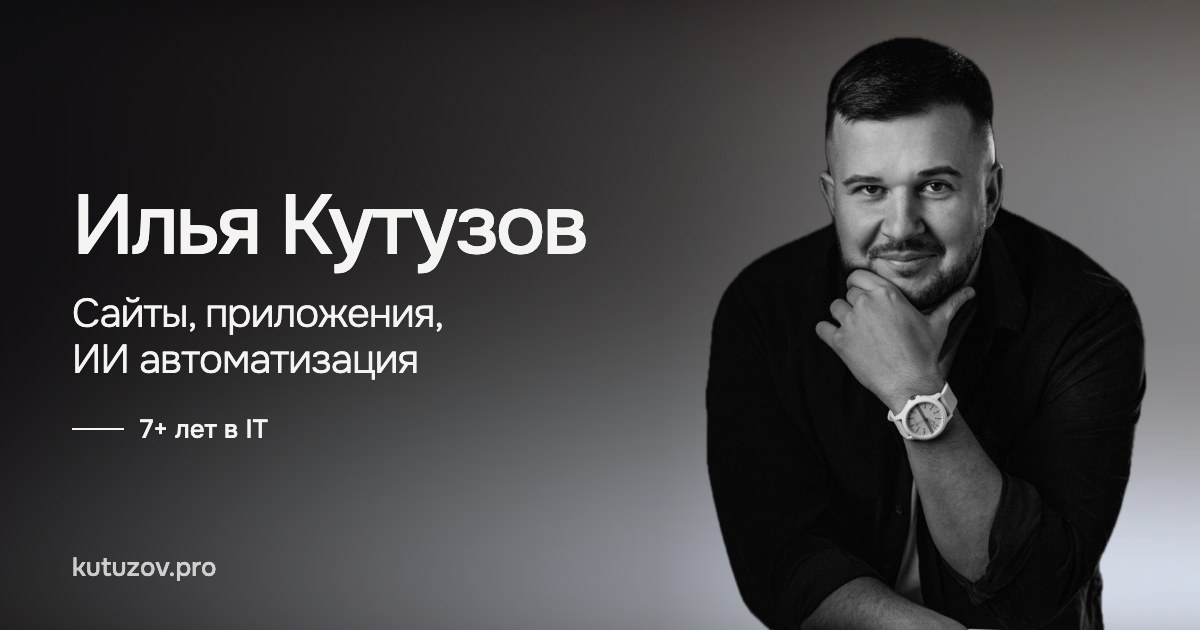
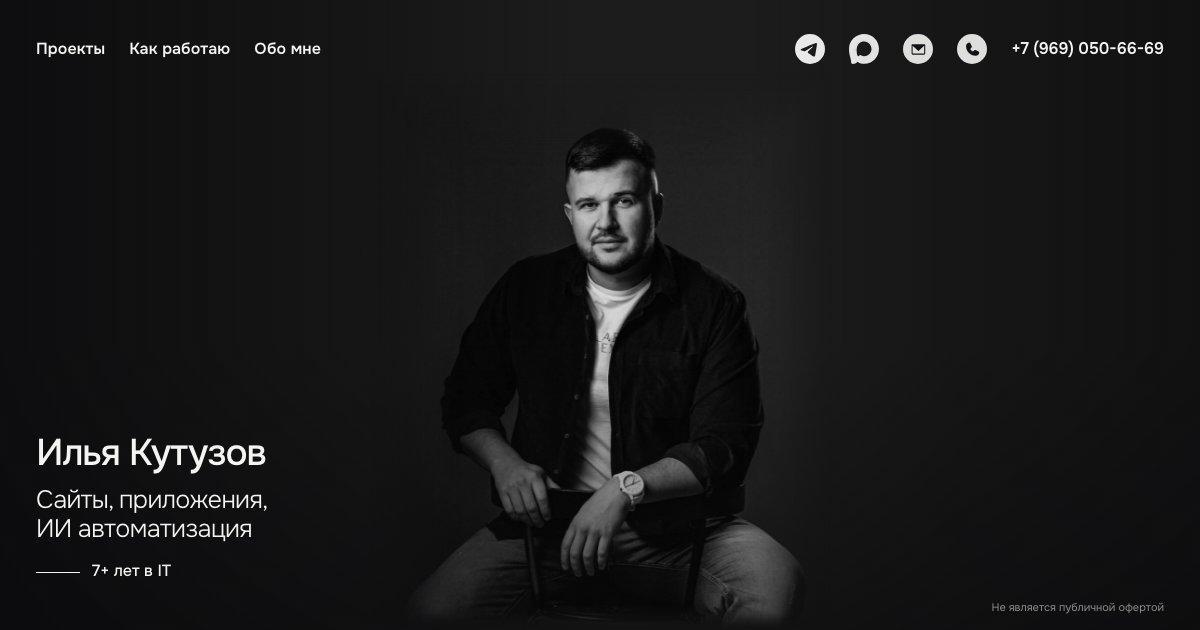
Новое фото: по пояс, родной фон; мобильное меню мельче

diff --git a/index.html b/index.html
@@ -71,7 +71,7 @@ body::after{content:"";position:fixed;z-index:-1;left:-20vw;top:-20vh;width:90vw
 @media (max-width:767px),(max-width:1024px) and (orientation:portrait){.csg{display:block;padding:0 16px 14px}.csg .wk{margin-bottom:12px}.csg .wk>b{margin-bottom:6px;font-size:13px;color:#fff}.csg .shots{display:flex;gap:7px;overflow-x:auto;scroll-snap-type:x proximity;margin:0 -16px;padding:0 16px;scrollbar-width:none}.csg .shots::-webkit-scrollbar{display:none}.csg .wk .tl{width:auto;scroll-snap-align:start;scroll-margin-left:16px}.csg .wk .tl img{width:auto;height:150px;height:clamp(104px,calc((100dvh - 66px)/4 - 40px),190px)}#cs-sites .csg .wk .tl img{aspect-ratio:auto}#cs-apps .csg .wk .tl img{width:calc((100vw - 46px)/3);height:auto}.cats .ct{animation:mn .75s cubic-bezier(.2,1.25,.35,1) backwards,wv 6s ease-in-out infinite}.cats .ct:nth-child(1){animation-delay:0.25s,3.14s}.cats .ct:nth-child(2){animation-delay:0.38s,3.28s}.cats .ct:nth-child(3){animation-delay:0.51s,3.42s}.cats .ct:nth-child(4){animation-delay:0.64s,3.56s}@keyframes wv{0%,12%,100%{transform:none;opacity:1}5%{transform:translateY(-4px);opacity:.65}}}
 @media (max-width:950px) and (max-height:480px) and (orientation:landscape){.who h1{font-size:26px}.who .rm{font-size:13px;margin-top:3px}.who .ab{font-size:13px;margin-top:3px}}
 @media (prefers-reduced-motion:reduce){*,*::before,*::after{animation:none!important;transition:none!important}}
-:root{--r:0.77;--mw:60vw}#dr-sites .wk .tl img{object-fit:contain}@media (min-width:1025px),(min-width:768px) and (orientation:landscape){
+:root{--r:0.844;--mw:60vw}#dr-sites .wk .tl img{object-fit:contain}@media (min-width:1025px),(min-width:768px) and (orientation:landscape){
 .who{transform-origin:0 100%;animation:brL 1.05s linear .15s backwards}.side>*{transform-origin:100% 100%;animation:brR 1.05s linear .3s backwards}.side>*:nth-child(2){animation-delay:.42s}
 @keyframes brL{0%{transform:translateX(-85vw) skewX(-20deg);opacity:0;animation-timing-function:cubic-bezier(.12,.75,.25,1)}6%{opacity:1}52%{transform:translateX(26px) skewX(-15deg);animation-timing-function:ease-in-out}68%{transform:translateX(-9px) skewX(6deg);animation-timing-function:ease-in-out}84%{transform:translateX(3px) skewX(-2deg);animation-timing-function:ease-in-out}100%{transform:none}}
 @keyframes brR{0%{transform:translateX(70vw) skewX(20deg);opacity:0;animation-timing-function:cubic-bezier(.12,.75,.25,1)}6%{opacity:1}52%{transform:translateX(-26px) skewX(15deg);animation-timing-function:ease-in-out}68%{transform:translateX(9px) skewX(-6deg);animation-timing-function:ease-in-out}84%{transform:translateX(-3px) skewX(2deg);animation-timing-function:ease-in-out}100%{transform:none}}
@@ -82,13 +82,13 @@ body::after{content:"";position:fixed;z-index:-1;left:-20vw;top:-20vh;width:90vw
 .ph{animation:mP 1.1s cubic-bezier(.16,1,.3,1) backwards}@keyframes mP{from{opacity:0;translate:0 70px;scale:.95}}
 .scrim{animation:mF .9s ease .1s backwards}@keyframes mF{from{opacity:0}}
 .mb{overflow:hidden}.mb>*{animation:upm .9s cubic-bezier(.2,1.4,.4,1) backwards}@keyframes upm{0%{opacity:0;transform:translateY(70px)}60%{opacity:1}100%{transform:none}}.mb>*:nth-child(4){animation-delay:.75s}.mb>*:nth-child(3){animation-delay:.87s}.mb>*:nth-child(2){animation-delay:.99s}.mb>*:nth-child(1){animation-delay:1.11s}@keyframes run{0%{transform:translateX(-105vw)}12%{transform:translateX(-80vw) translateY(-5px)}24%{transform:translateX(-58vw)}36%{transform:translateX(-38vw) translateY(-5px)}48%{transform:translateX(-21vw)}60%{transform:translateX(-8vw) translateY(-5px)}72%{transform:translateX(5px) rotate(5deg)}86%{transform:translateX(-2px) rotate(-2deg)}100%{transform:none}}
-.cats .ct{transform-origin:50% 0;animation:mS 1.15s linear backwards,wv 6s ease-in-out infinite}.cats .ct:nth-child(1){animation-delay:.3s,3.6s}.cats .ct:nth-child(2){animation-delay:.38s,3.74s}.cats .ct:nth-child(3){animation-delay:.46s,3.88s}.cats .ct:nth-child(4){animation-delay:.54s,4.02s}@keyframes mS{0%{transform:translateY(-70px) rotate(-7deg);opacity:0;animation-timing-function:cubic-bezier(.5,0,.9,.6)}30%{transform:translateY(0) rotate(7deg);opacity:1;animation-timing-function:ease-in-out}50%{transform:rotate(-5deg);animation-timing-function:ease-in-out}68%{transform:rotate(3deg);animation-timing-function:ease-in-out}84%{transform:rotate(-1.5deg);animation-timing-function:ease-in-out}100%{transform:none}}.mb{background:none!important;box-shadow:none!important;border:0!important}.scrim{bottom:0!important;height:calc(34dvh + 68px)!important;background:linear-gradient(transparent,rgb(10 10 12 / .86) 62%,#0c0c0e calc(100% - 68px))!important}.mb a{text-shadow:0 1px 6px rgb(0 0 0 / .6)}.ph{content:url(img/ph-cx.webp);translate:0 12.684%}.scrim{height:calc(30dvh + 68px)!important;background:linear-gradient(transparent,rgb(10 10 12 / .55) 50%,rgb(12 12 14 / .9) calc(100% - 70px),#0e0e10 calc(100% - 36px))!important;animation:none!important;opacity:1!important}.who h1,.who .rm,.who .ab,.ph,.mb>*:nth-child(n){animation-delay:.1s}.cats .ct:nth-child(1),.cats .ct:nth-child(2),.cats .ct:nth-child(3),.cats .ct:nth-child(4){animation-delay:.1s,3.6s}}@media (min-width:1025px),(min-width:768px) and (orientation:landscape){.scrim{display:block!important;position:fixed;inset:0;height:auto;z-index:4;pointer-events:none;background:linear-gradient(90deg,rgb(10 10 12 / .8),rgb(10 10 12 / .35) 32%,transparent 48%,transparent 62%,rgb(10 10 12 / .35) 80%,rgb(10 10 12 / .6)),linear-gradient(transparent 55%,rgb(10 10 12 / .55));animation:none}
+.cats .ct{transform-origin:50% 0;animation:mS 1.15s linear backwards,wv 6s ease-in-out infinite}.cats .ct:nth-child(1){animation-delay:.3s,3.6s}.cats .ct:nth-child(2){animation-delay:.38s,3.74s}.cats .ct:nth-child(3){animation-delay:.46s,3.88s}.cats .ct:nth-child(4){animation-delay:.54s,4.02s}@keyframes mS{0%{transform:translateY(-70px) rotate(-7deg);opacity:0;animation-timing-function:cubic-bezier(.5,0,.9,.6)}30%{transform:translateY(0) rotate(7deg);opacity:1;animation-timing-function:ease-in-out}50%{transform:rotate(-5deg);animation-timing-function:ease-in-out}68%{transform:rotate(3deg);animation-timing-function:ease-in-out}84%{transform:rotate(-1.5deg);animation-timing-function:ease-in-out}100%{transform:none}}.mb{background:none!important;box-shadow:none!important;border:0!important}.scrim{bottom:0!important;height:calc(34dvh + 68px)!important;background:linear-gradient(transparent,rgb(10 10 12 / .86) 62%,#0c0c0e calc(100% - 68px))!important}.mb a{text-shadow:0 1px 6px rgb(0 0 0 / .6)}.ph{content:url(img/ph-cx.webp);translate:0 0}.scrim{height:calc(30dvh + 68px)!important;background:linear-gradient(transparent,rgb(10 10 12 / .55) 50%,rgb(12 12 14 / .9) calc(100% - 70px),#0e0e10 calc(100% - 36px))!important;animation:none!important;opacity:1!important}.who h1,.who .rm,.who .ab,.ph,.mb>*:nth-child(n){animation-delay:.1s}.cats .ct:nth-child(1),.cats .ct:nth-child(2),.cats .ct:nth-child(3),.cats .ct:nth-child(4){animation-delay:.1s,3.6s}}@media (min-width:1025px),(min-width:768px) and (orientation:landscape){.scrim{display:block!important;position:fixed;inset:0;height:auto;z-index:4;pointer-events:none;background:linear-gradient(90deg,rgb(10 10 12 / .8),rgb(10 10 12 / .35) 32%,transparent 48%,transparent 62%,rgb(10 10 12 / .35) 80%,rgb(10 10 12 / .6)),linear-gradient(transparent 55%,rgb(10 10 12 / .55));animation:none}
 .side{display:none!important}.who{color:#f4f4f2!important;bottom:clamp(36px,7dvh,72px)}.who .mo{display:none!important}.who .rm{display:block!important;margin-top:14px;font-size:clamp(22px,2.1vw,34px);font-weight:300;line-height:1.14;letter-spacing:-.025em}
 .who .ab{display:flex!important;align-items:center;gap:12px;margin-top:16px;font-size:clamp(14px,1.1vw,17px)}.who .ab::before{content:"";display:block;width:44px;height:1px;background:currentColor}.who .ab b{font-weight:500}.leg{color:rgb(244 244 242 / .55)!important}
 .acts .lg{filter:brightness(0) invert(1);opacity:.9;transition:filter .2s,opacity .2s}.acts .lgc{filter:none!important;opacity:.9;background:#f4f4f2!important;color:#111214}.acts .lgc .ico{width:56%!important;height:56%!important}.acts .rd:hover .lgc{color:#fff}.acts .lgm,.mb .lgm{background:none!important;color:#f4f4f2!important}.acts .lgm .ico,.mb .lgm .ico{width:112%!important;height:112%!important}.acts .rd:hover .lgm{color:#ff8a3d!important}.acts .rd:hover .lg{filter:none;opacity:1}.acts .rd:hover .lgc{background:var(--b)!important}
 .cats .ct,.acts>*{animation:fd2 .8s cubic-bezier(.16,1,.3,1) backwards!important}@keyframes fd2{from{opacity:0;transform:translateY(-8px)}}
 .drop.dst{padding:30px 32px}.st{grid-template-columns:repeat(2,minmax(0,1fr));gap:26px 48px;max-width:760px}.st b{font-size:19px;margin-bottom:6px}.st p{font-size:16px;line-height:1.45;color:rgb(244 244 242 / .92)}.st i{width:34px;height:34px;font-size:15px}.abt{max-width:620px}.abt p{font-size:18px;line-height:1.45;margin-bottom:14px}}
-@media (max-width:767px),(max-width:1024px) and (orientation:portrait){.mb .lg{filter:brightness(0) invert(1)}.mb .lgc{filter:none!important;background:#f4f4f2!important;color:#111214}.mb .lgc .ico{width:56%!important;height:56%!important}.mb .lgm{background:none!important;color:#f4f4f2!important}.mb .lgm .ico{width:112%!important;height:112%!important}}@media (min-width:1025px),(min-width:768px) and (orientation:landscape){.cats .ct:not(.m3){display:none!important}.cats .ct.m3{display:block;font-size:16px;font-weight:600;letter-spacing:.005em}.telt{font-weight:600!important}.dl{display:inline}.ml{display:none}.drop .dpt{display:flex}#dr-sites.on .dpt{grid-column:1/-1}#dr-apps.on{flex-wrap:wrap}#dr-apps.on .dpt{flex:0 0 auto;margin-right:100%}}.dpt{display:none;gap:6px;width:max-content;padding:4px;margin-bottom:6px;border-radius:999px;background:rgb(255 255 255 / .1)}.dpt button{padding:8px 18px;border-radius:999px;font-size:14px;font-weight:600;color:rgb(244 244 242 / .7);cursor:pointer;transition:background .2s,color .2s}.dpt button.on{background:#f4f4f2;color:#111214}.dh{margin:18px 0 10px;font-size:13px;font-weight:600;letter-spacing:.06em;text-transform:uppercase;color:rgb(244 244 242 / .55)}.dl2{list-style:none;margin:0;padding:0;display:grid;gap:10px}.dl2 li{font-size:15px;line-height:1.38;color:rgb(244 244 242 / .85)}.dl2 b{color:#f4f4f2;font-weight:600}.dl2 b::after{content:": "}@media (min-width:1025px),(min-width:768px) and (orientation:landscape){.drop .dl2 li{font-size:17px}.drop .dh{font-size:14px}}.cta2{margin-top:22px}.wbtn{display:inline-flex;align-items:center;justify-content:center;height:48px;padding:0 26px;border-radius:999px;background:#f4f4f2;color:#111214;font-size:16px;font-weight:600;cursor:pointer;transition:transform .2s,opacity .2s}.wbtn:active{transform:scale(.97)}.wch{display:none;gap:10px;flex-wrap:wrap}.wch a{display:inline-flex;align-items:center;gap:9px;height:48px;padding:0 20px 0 14px;border-radius:999px;background:#f4f4f2;color:#111214;font-size:16px;font-weight:600}.wch img{width:26px;height:26px}.cta2.open .wbtn{display:none}.cta2.open .wch{display:flex;animation:sw .35s cubic-bezier(.16,1,.3,1)}.m3,.ml{display:none}.pt{position:sticky;top:60px;z-index:2;display:flex;gap:6px;margin:0 16px 14px;padding:4px;border-radius:999px;background:rgb(255 255 255 / .1)}.pt button{flex:1;padding:10px 0;border-radius:999px;text-align:center;font-size:15px;font-weight:600;color:rgb(244 244 242 / .7);transition:background .25s,color .25s}.pt button.on{background:#f4f4f2;color:#111214}.pnl{display:none!important}.pnl.on{display:block!important;animation:sw .4s cubic-bezier(.16,1,.3,1)}#cs-works .pnl[data-p=apps] .wk .tl img{width:calc((100vw - 46px)/3)!important;height:auto!important;aspect-ratio:9/19.5!important}.wh{margin:6px 0 10px;font-size:13px;font-weight:600;letter-spacing:.06em;text-transform:uppercase;color:rgb(244 244 242 / .55)}.csg .wh+.wk{margin-top:0}.csg .wk+.wh{margin-top:22px}@media (max-width:767px),(max-width:1024px) and (orientation:portrait){.cats .ct:not(.m3){display:none!important}.cats .m3{display:block}.dl{display:none}.ml{display:inline}.cats{justify-content:space-between!important;gap:8px!important}.cats .ct.m3{font-size:clamp(17px,4.9vw,22px)!important;font-weight:600;letter-spacing:-.01em}.cats .ct:nth-child(5),.cats .ct:nth-child(6),.cats .ct:nth-child(7){animation-delay:.1s,3.6s}.cats .ct:nth-child(6){animation-delay:.1s,3.74s}.cats .ct:nth-child(7){animation-delay:.1s,3.88s}}</style></head><body>
+@media (max-width:767px),(max-width:1024px) and (orientation:portrait){.mb .lg{filter:brightness(0) invert(1)}.mb .lgc{filter:none!important;background:#f4f4f2!important;color:#111214}.mb .lgc .ico{width:56%!important;height:56%!important}.mb .lgm{background:none!important;color:#f4f4f2!important}.mb .lgm .ico{width:112%!important;height:112%!important}}@media (min-width:1025px),(min-width:768px) and (orientation:landscape){.cats .ct:not(.m3){display:none!important}.cats .ct.m3{display:block;font-size:16px;font-weight:600;letter-spacing:.005em}.telt{font-weight:600!important}.dl{display:inline}.ml{display:none}.drop .dpt{display:flex}#dr-sites.on .dpt{grid-column:1/-1}#dr-apps.on{flex-wrap:wrap}#dr-apps.on .dpt{flex:0 0 auto;margin-right:100%}}.dpt{display:none;gap:6px;width:max-content;padding:4px;margin-bottom:6px;border-radius:999px;background:rgb(255 255 255 / .1)}.dpt button{padding:8px 18px;border-radius:999px;font-size:14px;font-weight:600;color:rgb(244 244 242 / .7);cursor:pointer;transition:background .2s,color .2s}.dpt button.on{background:#f4f4f2;color:#111214}.dh{margin:18px 0 10px;font-size:13px;font-weight:600;letter-spacing:.06em;text-transform:uppercase;color:rgb(244 244 242 / .55)}.dl2{list-style:none;margin:0;padding:0;display:grid;gap:10px}.dl2 li{font-size:15px;line-height:1.38;color:rgb(244 244 242 / .85)}.dl2 b{color:#f4f4f2;font-weight:600}.dl2 b::after{content:": "}@media (min-width:1025px),(min-width:768px) and (orientation:landscape){.drop .dl2 li{font-size:17px}.drop .dh{font-size:14px}}.cta2{margin-top:22px}.wbtn{display:inline-flex;align-items:center;justify-content:center;height:48px;padding:0 26px;border-radius:999px;background:#f4f4f2;color:#111214;font-size:16px;font-weight:600;cursor:pointer;transition:transform .2s,opacity .2s}.wbtn:active{transform:scale(.97)}.wch{display:none;gap:10px;flex-wrap:wrap}.wch a{display:inline-flex;align-items:center;gap:9px;height:48px;padding:0 20px 0 14px;border-radius:999px;background:#f4f4f2;color:#111214;font-size:16px;font-weight:600}.wch img{width:26px;height:26px}.cta2.open .wbtn{display:none}.cta2.open .wch{display:flex;animation:sw .35s cubic-bezier(.16,1,.3,1)}.m3,.ml{display:none}.pt{position:sticky;top:60px;z-index:2;display:flex;gap:6px;margin:0 16px 14px;padding:4px;border-radius:999px;background:rgb(255 255 255 / .1)}.pt button{flex:1;padding:10px 0;border-radius:999px;text-align:center;font-size:15px;font-weight:600;color:rgb(244 244 242 / .7);transition:background .25s,color .25s}.pt button.on{background:#f4f4f2;color:#111214}.pnl{display:none!important}.pnl.on{display:block!important;animation:sw .4s cubic-bezier(.16,1,.3,1)}#cs-works .pnl[data-p=apps] .wk .tl img{width:calc((100vw - 46px)/3)!important;height:auto!important;aspect-ratio:9/19.5!important}.wh{margin:6px 0 10px;font-size:13px;font-weight:600;letter-spacing:.06em;text-transform:uppercase;color:rgb(244 244 242 / .55)}.csg .wh+.wk{margin-top:0}.csg .wk+.wh{margin-top:22px}@media (max-width:767px),(max-width:1024px) and (orientation:portrait){.cats .ct:not(.m3){display:none!important}.cats .m3{display:block}.dl{display:none}.ml{display:inline}.cats{justify-content:space-between!important;gap:8px!important}.cats .ct.m3{font-size:clamp(15px,4.3vw,19px)!important;font-weight:600;letter-spacing:-.01em}.cats .ct:nth-child(5),.cats .ct:nth-child(6),.cats .ct:nth-child(7){animation-delay:.1s,3.6s}.cats .ct:nth-child(6){animation-delay:.1s,3.74s}.cats .ct:nth-child(7){animation-delay:.1s,3.88s}}body{background:#1c1c1c}body::before,body::after{display:none!important}@media (max-width:767px),(max-width:1024px) and (orientation:portrait){.ph{top:calc(52px + env(safe-area-inset-top));bottom:auto!important;width:min(125vw,calc((100dvh - 220px)*.782))!important}}</style></head><body>
 <header class="bar"><nav class="cats" aria-label="Работы"><button class="ct" data-c="sites" aria-haspopup="true">Сайты</button><button class="ct" data-c="apps" aria-haspopup="true">Приложения</button><button class="ct" data-c="how" aria-haspopup="true">Как работаю</button><button class="ct" data-c="about" aria-haspopup="true">Обо мне</button><button class="ct m3" data-c="works" aria-haspopup="true">Проекты</button><button class="ct m3" data-c="how" aria-haspopup="true">Как работаю</button><button class="ct m3" data-c="about" aria-haspopup="true">Обо мне</button></nav><div class="acts"><a class="rd" href="https://t.me/Ilya_Kutuzov1993" target="_blank" rel="noopener" aria-label="Telegram" title="Telegram"><img class="lg" src="img/telegram.svg" alt=""></a><a class="rd" href="https://max.ru/u/f9LHodD0cOKt7o1f63eVBieiOR4zXzfRApGqfLCLHVSsatPRZdFKE-b8lCk" target="_blank" rel="noopener" aria-label="MAX" title="MAX"><img class="lg" src="img/max.svg" alt=""></a><a class="rd" href="mailto:ikutuzov1702@gmail.com" aria-label="Почта" title="Почта"><span class="lg lgc" style="--b:linear-gradient(180deg,#ff8a3d,#f4511e);background:var(--b)"><svg class="ico" aria-hidden="true" xmlns="http://www.w3.org/2000/svg" viewBox="0 0 256 256" fill="currentColor"><path d="M224,48H32a8,8,0,0,0-8,8V192a16,16,0,0,0,16,16H216a16,16,0,0,0,16-16V56A8,8,0,0,0,224,48Zm-8,144H40V74.19l82.59,75.71a8,8,0,0,0,10.82,0L216,74.19V192Z"/></svg></span></a><a class="rd" href="tel:+79690506669" aria-label="Телефон" title="Телефон"><span class="lg lgc" style="--b:linear-gradient(180deg,#4cd964,#22b14c);background:var(--b)"><svg class="ico" aria-hidden="true" xmlns="http://www.w3.org/2000/svg" viewBox="0 0 256 256" fill="currentColor"><path d="M231.88,175.08A56.26,56.26,0,0,1,176,224C96.6,224,32,159.4,32,80A56.26,56.26,0,0,1,80.92,24.12a16,16,0,0,1,16.62,9.52l21.12,47.15,0,.12A16,16,0,0,1,117.39,96c-.18.27-.37.52-.57.77L96,121.45c7.49,15.22,23.41,31,38.83,38.51l24.34-20.71a8.12,8.12,0,0,1,.75-.56,16,16,0,0,1,15.17-1.4l.13.06,47.11,21.11A16,16,0,0,1,231.88,175.08Z"/></svg></span></a><a class="telt" href="tel:+79690506669">+7 (969) 050-66-69</a></div></header>
 <img class="ph" src="img/ph-c.webp" alt="Илья Кутузов">
 <div class="who"><h1><span class="ln"><span>Илья</span></span> <span class="ln"><span style="animation-delay:.1s">Кутузов</span></span></h1><p class="mo">Автоматизация задач<br>с удобным интерфейсом</p><p class="rm">Сайты, приложения,<br>ИИ автоматизация</p><div class="ab"><b>7+ лет в IT</b></div><ul class="wl"><li><button class="w" data-c="sites"><span class="sl"><span class="m lp"><img src="img/sk-1.webp" alt=""></span></span><span class="tx"><b>Сайты</b></span><svg class="ico" aria-hidden="true" xmlns="http://www.w3.org/2000/svg" viewBox="0 0 256 256" fill="currentColor"><path d="M200,64V168a8,8,0,0,1-16,0V83.31L69.66,197.66a8,8,0,0,1-11.32-11.32L172.69,72H88a8,8,0,0,1,0-16H192A8,8,0,0,1,200,64Z"/></svg></button></li><li><button class="w" data-c="apps"><span class="sl"><span class="m pn"><img src="img/nap-1.webp" alt=""></span></span><span class="tx"><b>Приложения</b></span><svg class="ico" aria-hidden="true" xmlns="http://www.w3.org/2000/svg" viewBox="0 0 256 256" fill="currentColor"><path d="M200,64V168a8,8,0,0,1-16,0V83.31L69.66,197.66a8,8,0,0,1-11.32-11.32L172.69,72H88a8,8,0,0,1,0-16H192A8,8,0,0,1,200,64Z"/></svg></button></li></ul><div class="hws"><button class="hw" data-c="about">Обо мне<span aria-hidden="true">&#8250;</span></button><button class="hw" data-c="how">Как работаю<span aria-hidden="true">&#8250;</span></button></div></div>
